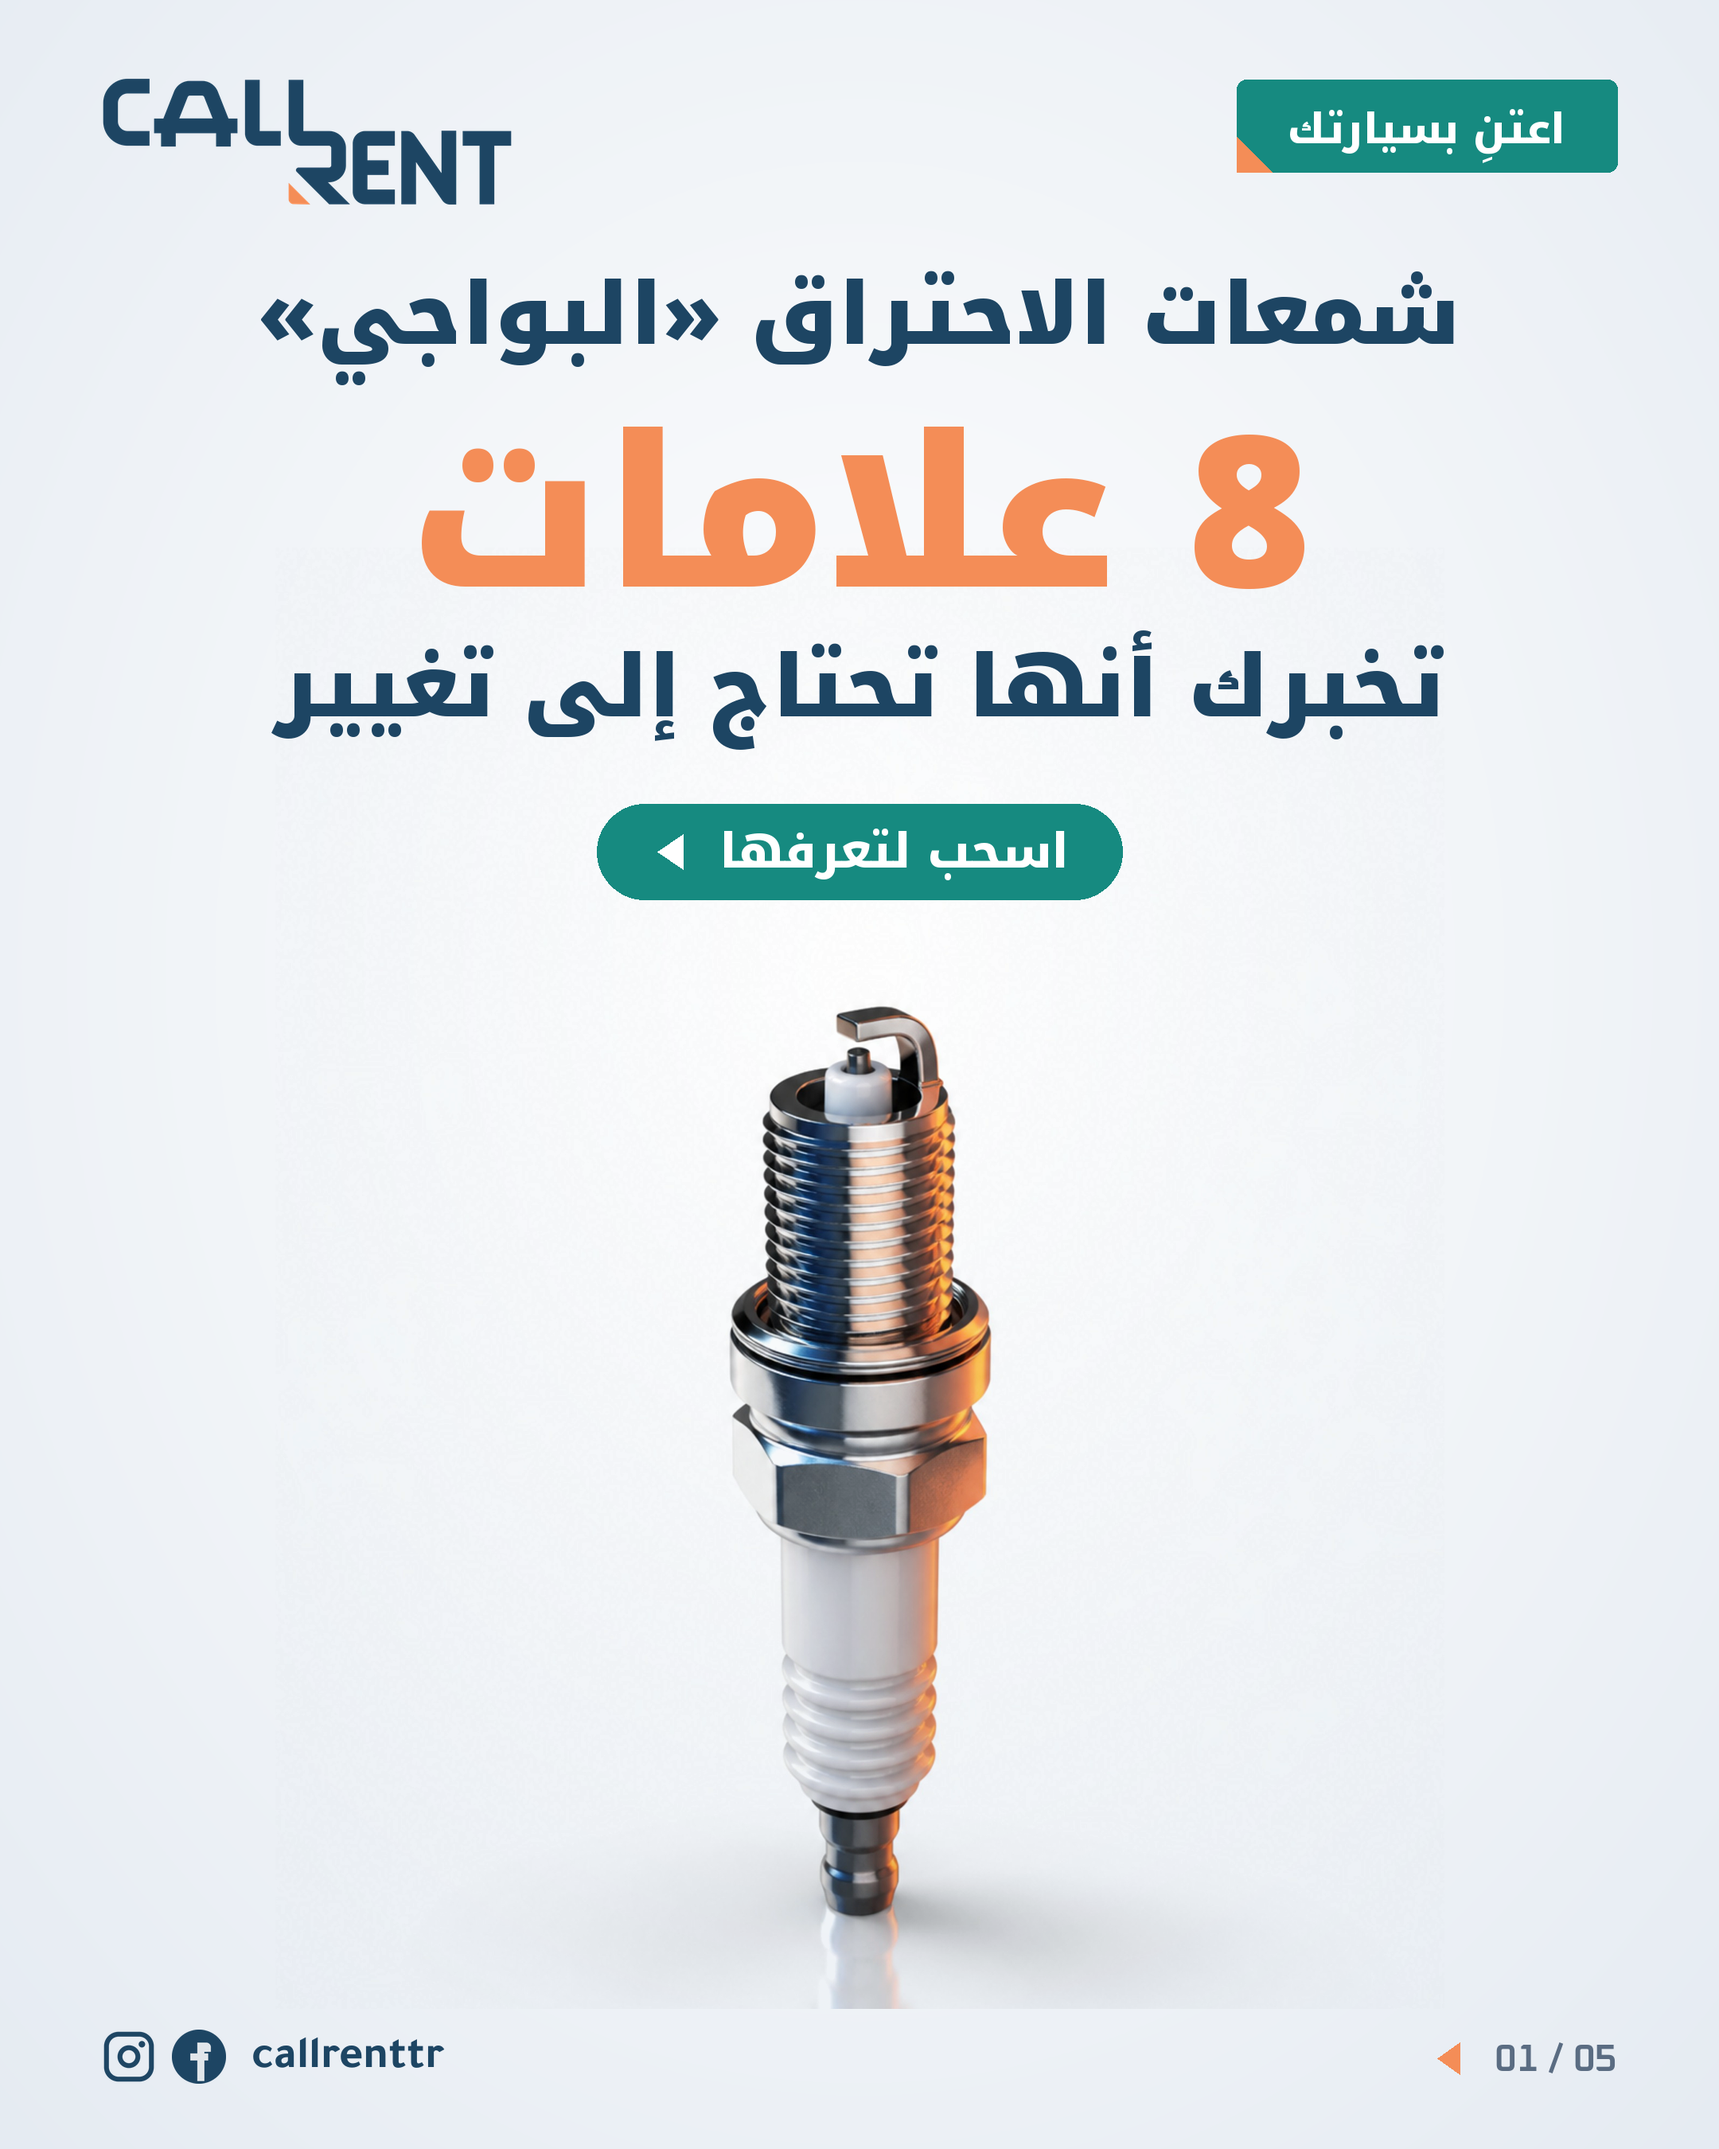
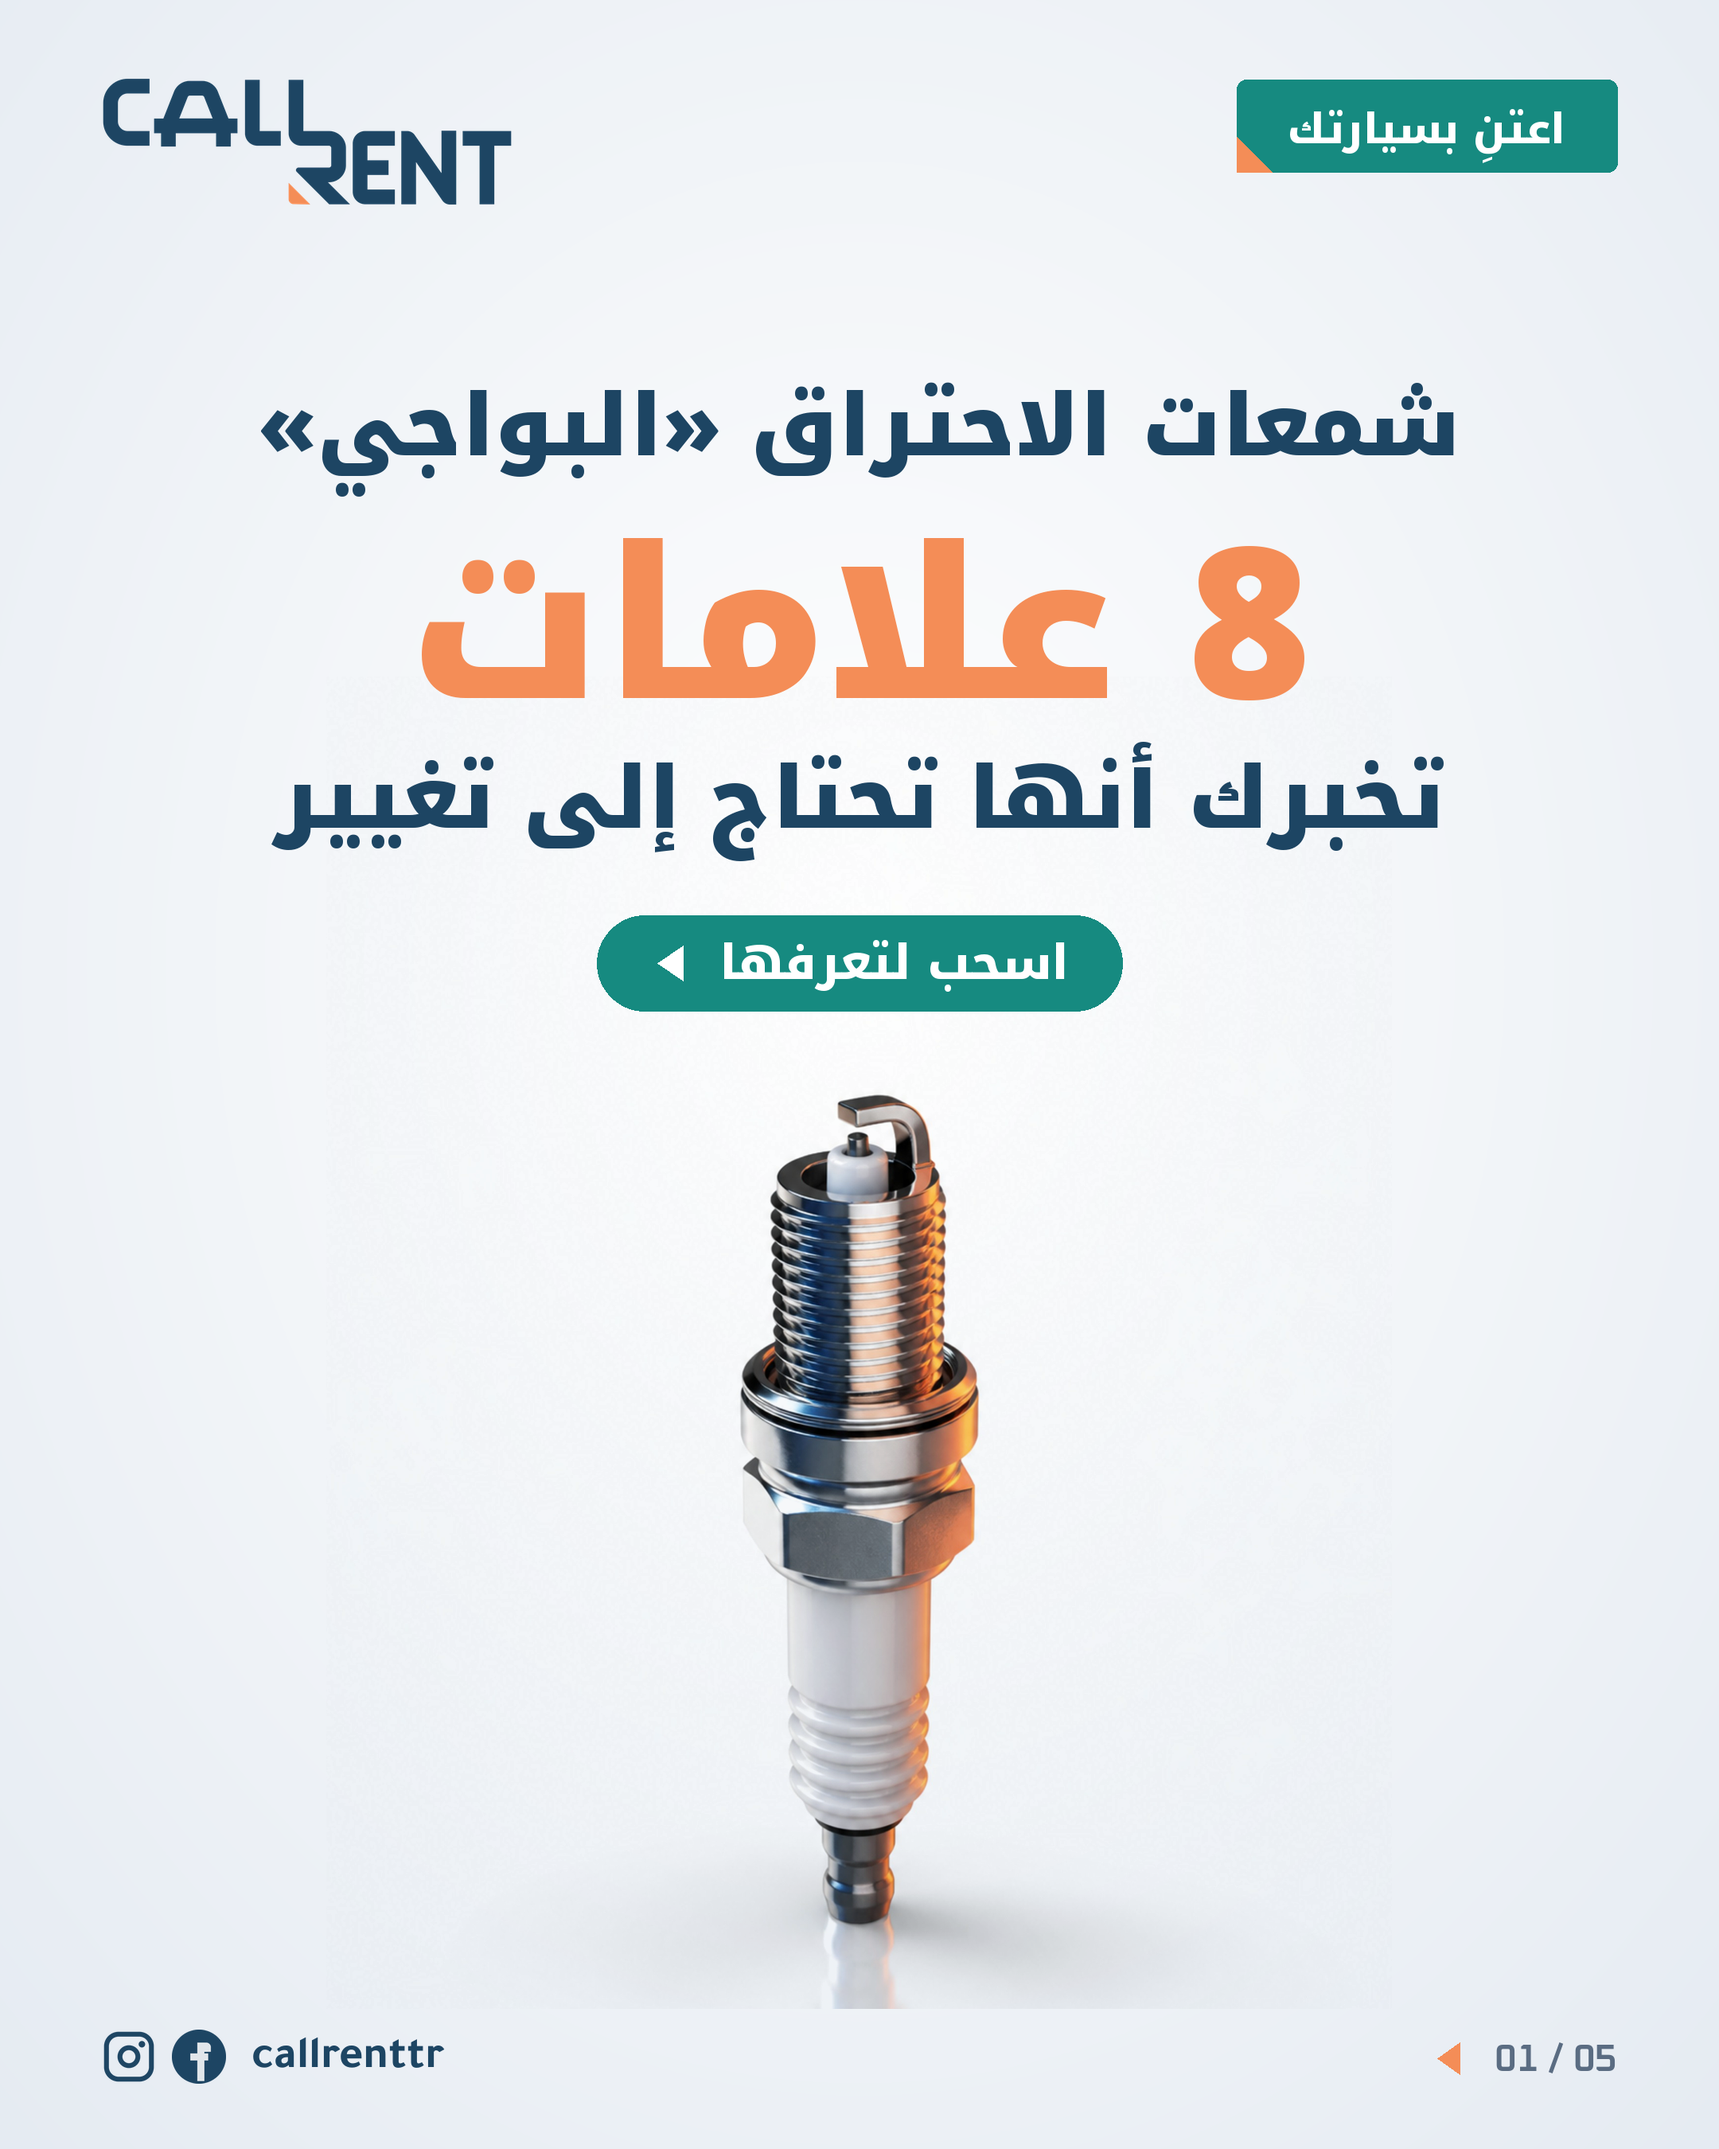
Spark plug carousel: lower the text on the cover and last slide
Claude-Session: https://claude.ai/code/session_01JWxxZZBXcuDznNNTjM86b7

Changed region(s): [[0.1551, 0.1244, 0.8685, 0.9022]]

diff --git a/marketing/care/spark_plugs.py b/marketing/care/spark_plugs.py
@@ -170,17 +170,17 @@ SIGNS = [  # icon, title, detail
 
 def cover(out):
     cv = page()
-    top = place(cv, 'plug-1-cover.jpg', 0.68, 540, 1262)
+    top = place(cv, 'plug-1-cover.jpg', 0.62, 540, 1262)
     chrome(cv, 1); d = ImageDraw.Draw(cv)
     y = stack(d, [('شمعات الاحتراق «البواجي»', F(AR_BLACK, S(54)), N),
                   ('8 علامات', F(AR_BLACK, S(132)), O),
-                  ('تخبرك أنها تحتاج إلى تغيير', F(AR_BLACK, S(54)), N)], S(170), W/2, 'ms')
+                  ('تخبرك أنها تحتاج إلى تغيير', F(AR_BLACK, S(54)), N)], S(240), W/2, 'ms')
     t = 'اسحب لتعرفها'; fs = F(AR_BOLD, S(30)); tw = w_ar(t, fs) + S(110); c0 = y + S(34)
     d.rounded_rectangle((W/2 - tw/2, c0, W/2 + tw/2, c0 + S(60)), radius=S(30), fill=TEAL+(255,))
     ar(d, (W/2 + S(22), c0 + S(30)), t, fs, Wh, 'mm')
     ax = W/2 - tw/2 + S(38); ay = c0 + S(30)
     d.polygon([(ax, ay), (ax + S(16), ay - S(11)), (ax + S(16), ay + S(11))], fill=Wh+(255,))
-    print('cover text ends', round((c0 + S(60))/K), '| plug photo frame top', round(top), '(plug ink starts ~', round(top + 416*0.68), ')')
+    print('cover text ends', round((c0 + S(60))/K), '| plug photo frame top', round(top), '(plug ink starts ~', round(top + 416*0.62), ')')
     return cv
 
 
@@ -233,7 +233,7 @@ def when(out):
 
 
 def ask(out):
-    cv = page(); dy = S(330)
+    cv = page(); dy = S(420)
     ph = Image.open(os.path.join(HERE, 'plug-3-mechanic.jpg')).convert('RGBA').resize((W, H), Image.LANCZOS).crop((0, 0, W, H - dy))
     a = np.clip(np.arange(ph.height, dtype=np.float32)/S(220), 0, 1)                   # feather the top edge
     ph.putalpha(Image.fromarray((np.repeat(a[:, None], W, 1)*255).astype(np.uint8)))
@@ -243,10 +243,10 @@ def ask(out):
     cv.alpha_composite(lay)
     chrome(cv, 5); d = ImageDraw.Draw(cv)
     fe = F(AR_BOLD, S(30)); ew = w_ar('شاركنا', fe) + S(52)
-    d.rectangle((W/2 - ew/2, S(170), W/2 + ew/2, S(228)), fill=O+(255,))
-    ar(d, (W/2, S(200)), 'شاركنا', fe, N, 'mm')
+    d.rectangle((W/2 - ew/2, S(250), W/2 + ew/2, S(308)), fill=O+(255,))
+    ar(d, (W/2, S(280)), 'شاركنا', fe, N, 'mm')
     y = stack(d, [('هل لاحظت إحدى هذه', F(AR_BLACK, S(70)), N), ('العلامات في سيارتك؟', F(AR_BLACK, S(80)), O),
-                  ('البواجي التالفة تزيد استهلاك الوقود وتُرهق المحرك', F(AR_BOLD, S(32)), SOFTN)], S(228) + S(10), W/2, 'ms')
+                  ('البواجي التالفة تزيد استهلاك الوقود وتُرهق المحرك', F(AR_BOLD, S(32)), SOFTN)], S(308) + S(10), W/2, 'ms')
     print('ask text ends', round(y/K))
     return cv
 
